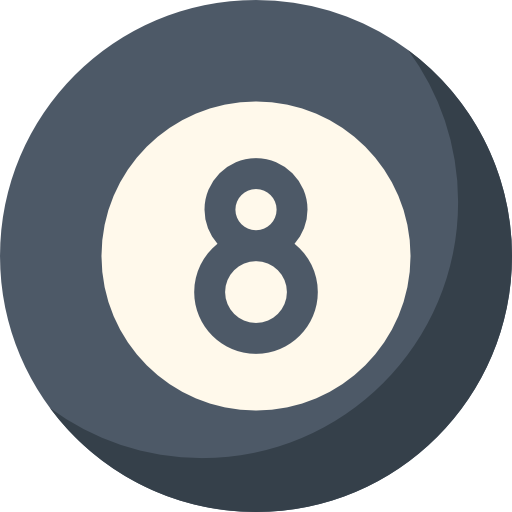
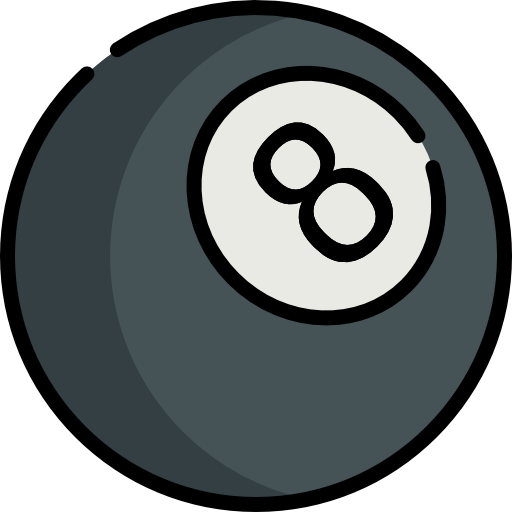
+

diff --git a/commands/fun/8ball.js b/commands/fun/8ball.js
@@ -18,8 +18,9 @@ module.exports.run = (client, message, args) => {
     const embed = new MessageEmbed()
         .setAuthor(message.author.username, message.author.displayAvatarURL())
         .setColor("#000")
-        // .setThumbnail(client.user.displayAvatarURL())
-        .setImage("../../assets/images/eight-ball.png")
+        // .setThumbnail(client.user.displayAvatarURL()) // Avatar du bot
+        // .setThumbnail('https://raw.githubusercontent.com/Thomas-LEPINE/bot-discord/main/assets/images/eight-ball.png?token=APJH2GYZNKDTDGXWALCURNS76NT6U') // Image bule num 8 avec fond rose saumon
+        .setThumbnail('https://raw.githubusercontent.com/Thomas-LEPINE/bot-discord/main/assets/images/billiard.png?token=APJH2GYZV4IBTP4UG7DLCCK76NURA') // Image bule num 8 classique
         .addField(question, replies[response])
     ;
     return message.channel.send(embed);
